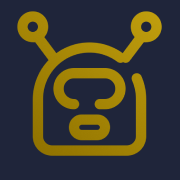
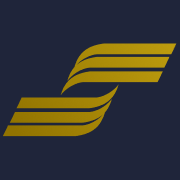
rebrand: complete rebrand from Viksstroy to ВиКС / VIKS
Assets:
- Add new brand assets: logo-white.svg/png, logo-dark.svg/png,
  favicon.svg, favicon.ico, icon-192.png, icon-512.png, apple-touch-icon
- Remove old assets: main.png (robot mascot), icon.svg, logo.png

Frontend:
- index.html: update favicon refs, theme-color #1F253A, title "ВиКС"
- manifest.json: full rewrite with new icons, name, colors
- Sidebar.jsx: dark/light logo-dark.svg and logo-white.svg, favicon.svg
  for collapsed state
- Header.jsx: replace CSS mask technique with proper <img> tags
- Layout.jsx: replace SVG shield icon + text with logo-white.svg
- Login.jsx: replace CSS mask with logo-white.svg
- tailwind.config.js: add brand colors (gold, navy, dark, white)
- TeamInviteModal/EquipmentInviteModal: "ВИКС Расписание" → "ВиКС"

Backend:
- api_main.py: FastAPI title → "VIKS API"
- support.py: AI assistant prompt → "ВиКС"
- main.py: bot welcome message → "ВиКС", logger → "ВиКС"
- main_max.py: bot welcome message → "ВиКС"

Not changed: database filenames, bot usernames (@viksstroy_bot),
Telegram/MAX bot URLs, historical changelog entries

diff --git a/frontend/src/components/Layout.jsx b/frontend/src/components/Layout.jsx
@@ -207,15 +207,8 @@ export default function Layout() {
         return (
             <div className="min-h-screen bg-gray-900 flex items-center justify-center p-6 text-center">
                 <div className="max-w-sm w-full space-y-8">
-                    <div className="w-20 h-20 bg-gray-800 rounded-3xl flex items-center justify-center mx-auto border border-gray-700 shadow-xl">
-                        <div className="w-12 h-12 bg-blue-600 rounded-2xl flex items-center justify-center">
-                            <svg className="w-7 h-7 text-white" fill="none" viewBox="0 0 24 24" stroke="currentColor" strokeWidth={2.5}>
-                                <path strokeLinecap="round" strokeLinejoin="round" d="M9 12.75L11.25 15 15 9.75m-3-7.036A11.959 11.959 0 013.598 6 11.99 11.99 0 003 9.749c0 5.592 3.824 10.29 9 11.623 5.176-1.332 9-6.03 9-11.622 0-1.31-.21-2.571-.598-3.751h-.152c-3.196 0-6.1-1.248-8.25-3.285z" />
-                            </svg>
-                        </div>
-                    </div>
+                    <img src="/logo-white.svg" alt="ВиКС" className="h-12 mx-auto" />
                     <div>
-                        <h1 className="text-2xl font-extrabold text-white mb-3 tracking-tight">ВИКС Расписание</h1>
                         <p className="text-gray-400 text-sm leading-relaxed">
                             Для доступа к платформе авторизуйтесь через бот Telegram или MAX
                         </p>
@@ -230,7 +223,7 @@ export default function Layout() {
                             MAX
                         </a>
                     </div>
-                    <p className="text-gray-500 text-xs">&copy; {new Date().getFullYear()} ВИКС Строй</p>
+                    <p className="text-gray-500 text-xs">&copy; {new Date().getFullYear()} ВиКС</p>
                 </div>
             </div>
         );

diff --git a/frontend/src/features/layout/components/Sidebar.jsx b/frontend/src/features/layout/components/Sidebar.jsx
@@ -113,13 +113,14 @@ export default function Sidebar({ role, openProfile, setGlobalCreateAppOpen, the
                 transition={prefersReducedMotion ? { duration: 0 } : { duration: 0.2, ease: [0.23, 1, 0.32, 1] }}
             >
                 {/* Logo */}
-                <div className={`border-b border-gray-100 dark:border-gray-800 flex-shrink-0 ${collapsed ? 'flex items-center justify-center px-2 h-14' : 'px-4 py-3.5'}`}>
+                <div className={`border-b border-gray-100 dark:border-gray-800 flex-shrink-0 ${collapsed ? 'flex items-center justify-center px-2 h-14' : 'px-4 py-3.5 flex items-center justify-center'}`}>
                     {!collapsed ? (
-                        <img src="/logo.png" alt="ВИКС Расписание" className="w-full h-auto object-contain brightness-0 dark:brightness-0 dark:invert opacity-80" />
+                        <img src="/logo-dark.svg" alt="ВиКС" className="h-8 w-auto dark:hidden" />
+                    ) : null}
+                    {!collapsed ? (
+                        <img src="/logo-white.svg" alt="ВиКС" className="h-8 w-auto hidden dark:block" />
                     ) : (
-                        <div className="w-8 h-8 bg-blue-600 rounded-lg flex items-center justify-center flex-shrink-0">
-                            <span className="text-white font-extrabold text-sm">В</span>
-                        </div>
+                        <img src="/favicon.svg" alt="ВиКС" className="w-8 h-8 flex-shrink-0" />
                     )}
                 </div>
 

diff --git a/frontend/index.html b/frontend/index.html
@@ -5,18 +5,17 @@
 
     <meta name="viewport" content="width=device-width, initial-scale=1.0, maximum-scale=1.0, user-scalable=no, viewport-fit=cover" />
 
-    <link rel="icon" href="/favicon.ico" sizes="32x32" />
-    <link rel="icon" href="/icon.svg" type="image/svg+xml" />
+    <link rel="icon" type="image/svg+xml" href="/favicon.svg" />
+    <link rel="icon" type="image/x-icon" href="/favicon.ico" />
+    <link rel="apple-touch-icon" href="/apple-touch-icon.png" />
     <link rel="manifest" href="/manifest.json" />
 
-    <meta name="theme-color" content="#3b82f6">
-
-    <link rel="apple-touch-icon" href="/apple-touch-icon.png?v=2" />
-    <meta name="apple-mobile-web-app-title" content="ВИКС" />
+    <meta name="theme-color" content="#1F253A" />
+    <meta name="apple-mobile-web-app-title" content="ВиКС" />
     <meta name="apple-mobile-web-app-capable" content="yes" />
     <meta name="apple-mobile-web-app-status-bar-style" content="black-translucent" />
 
-    <title>ВИКС Расписание</title>
+    <title>ВиКС</title>
     <script>
       // Load Telegram SDK only inside TG Mini App — telegram.org is throttled by RU ISPs
       if (window.TelegramWebviewProxy || window.Telegram || location.hash.includes('tgWebApp')) {

diff --git a/frontend/src/features/equipment/components/EquipmentInviteModal.jsx b/frontend/src/features/equipment/components/EquipmentInviteModal.jsx
@@ -5,7 +5,7 @@ import toast from 'react-hot-toast';
 export default function EquipmentInviteModal({ inviteInfo, setInviteInfo, copiedLink, setCopiedLink }) {
     const copyEquipMessage = () => {
         const code = inviteInfo.invite_code || inviteInfo.join_password;
-        const message = `🚜 Привет! Вот приглашение для привязки техники в «ВИКС Расписание».\n\nМашина: ${inviteInfo.equipName}\n\n✈ Ссылка для Telegram бота:\n${inviteInfo.tg_bot_link}\n\n💬 Для мессенджера MAX:\nОтправьте боту Расписания команду:\n/join ${code}`;
+        const message = `🚜 Привет! Вот приглашение для привязки техники в «ВиКС».\n\nМашина: ${inviteInfo.equipName}\n\n✈ Ссылка для Telegram бота:\n${inviteInfo.tg_bot_link}\n\n💬 Для мессенджера MAX:\nОтправьте боту Расписания команду:\n/join ${code}`;
         copyToClipboard(message, 'all', setCopiedLink);
         toast.success('Сообщение скопировано в буфер обмена!');
     };

diff --git a/frontend/src/features/teams/components/TeamInviteModal.jsx b/frontend/src/features/teams/components/TeamInviteModal.jsx
@@ -7,7 +7,7 @@ export default function TeamInviteModal({ inviteInfo, setInviteInfo, copiedLink,
 
     const copyInviteMessage = () => {
         const code = inviteInfo.invite_code || inviteInfo.join_password;
-        const message = `👋 Привет! Присоединяйся к нашей бригаде в системе «ВИКС Расписание».\n\n✈ Ссылка для Telegram бота:\n${inviteInfo.tg_bot_link}\n\n💬 Для мессенджера MAX:\nОтправьте боту Расписания команду:\n/join ${code}`;
+        const message = `👋 Привет! Присоединяйся к нашей бригаде в системе «ВиКС».\n\n✈ Ссылка для Telegram бота:\n${inviteInfo.tg_bot_link}\n\n💬 Для мессенджера MAX:\nОтправьте боту Расписания команду:\n/join ${code}`;
         copyToClipboard(message, 'all', setCopiedLink);
         toast.success('Полное сообщение скопировано в буфер обмена!');
     };

diff --git a/frontend/src/features/layout/components/Header.jsx b/frontend/src/features/layout/components/Header.jsx
@@ -17,12 +17,8 @@ export default function Header({ isTMA, realRole, role }) {
                 </div>
             )}
             <nav className="px-4 sm:px-6 py-3 flex justify-center items-center max-w-7xl mx-auto">
-                <div className="w-28 h-8 bg-blue-600 dark:bg-blue-500 transition-colors" style={{
-                    WebkitMaskImage: 'url(/logo.png)', maskImage: 'url(/logo.png)',
-                    WebkitMaskSize: 'contain', maskSize: 'contain',
-                    WebkitMaskRepeat: 'no-repeat', maskRepeat: 'no-repeat',
-                    WebkitMaskPosition: 'center', maskPosition: 'center'
-                }} />
+                <img src="/logo-dark.svg" alt="ВиКС" className="h-7 w-auto dark:hidden" />
+                <img src="/logo-white.svg" alt="ВиКС" className="h-7 w-auto hidden dark:block" />
             </nav>
         </header>
     );

diff --git a/frontend/src/pages/Login.jsx b/frontend/src/pages/Login.jsx
@@ -74,15 +74,7 @@ export default function Login() {
           className="flex items-center justify-center mb-6"
           {...anim({ initial: { opacity: 0, scale: 0.8 }, animate: { opacity: 1, scale: 1 }, transition: { duration: 0.6, delay: 0.1, ease } })}
         >
-          <div
-            className="w-36 h-10 bg-white"
-            style={{
-              WebkitMaskImage: 'url(/logo.png)', maskImage: 'url(/logo.png)',
-              WebkitMaskSize: 'contain', maskSize: 'contain',
-              WebkitMaskRepeat: 'no-repeat', maskRepeat: 'no-repeat',
-              WebkitMaskPosition: 'center', maskPosition: 'center',
-            }}
-          />
+          <img src="/logo-white.svg" alt="ВиКС" className="h-10 w-auto" />
         </motion.div>
 
         {/* ── Card ── */}

diff --git a/frontend/tailwind.config.js b/frontend/tailwind.config.js
@@ -37,6 +37,13 @@ export default {
           500: colors.indigo[500],
           600: colors.indigo[600],
         },
+        brand: {
+          gold: '#BC9B0E',
+          'gold-dark': '#917300',
+          navy: '#1F253A',
+          white: '#FFFFFF',
+          dark: '#313131',
+        },
       },
     },
   },

diff --git a/main.py b/main.py
@@ -114,7 +114,7 @@ async def cmd_start(message: types.Message, command: CommandObject, state: FSMCo
     else:
         await state.set_state(RegState.waiting_for_password)
         await message.answer(
-            "🔐 <b>Добро пожаловать в ВИКС Расписание!</b>\n\nЯ не нашел вас в базе данных.\nПожалуйста, введите ваш <b>системный пароль</b> или <b>6-значный код привязки</b> (если аккаунт уже есть в MAX):",
+            "🔐 <b>Добро пожаловать в ВиКС!</b>\n\nЯ не нашел вас в базе данных.\nПожалуйста, введите ваш <b>системный пароль</b> или <b>6-значный код привязки</b> (если аккаунт уже есть в MAX):",
             parse_mode="html")
 
 
@@ -1218,7 +1218,7 @@ async def main():
     scheduler.add_job(backup_database, 'cron', hour=3, minute=0, id='backup_database')
     scheduler.start()
 
-    logger.info(">>> Бот ВИКС Расписание успешно запущен (Deep Links) <<<")
+    logger.info(">>> Бот ВиКС успешно запущен <<<")
     await dp.start_polling(bot)
 
 

diff --git a/main_max.py b/main_max.py
@@ -272,7 +272,7 @@ async def message_handler(event: MessageCreated):
                 await send_max_msg(event, msg, target_url=WEB_APP_URL)
         else:
             USER_STATES[max_id_str] = {"state": "waiting_for_password"}
-            msg = "🔐 Добро пожаловать в ВИКС Расписание!\n\nЯ не нашел вас в базе данных.\nПожалуйста, введите ваш системный пароль или 6-значный код привязки (если аккаунт уже есть в Telegram).\nЕсли вы рабочий или водитель, используйте команду /join [код]"
+            msg = "🔐 Добро пожаловать в ВиКС!\n\nЯ не нашел вас в базе данных.\nПожалуйста, введите ваш системный пароль или 6-значный код привязки (если аккаунт уже есть в Telegram).\nЕсли вы рабочий или водитель, используйте команду /join [код]"
             await send_max_msg(event, msg)
         return
 

diff --git a/web/routers/support.py b/web/routers/support.py
@@ -279,7 +279,7 @@ async def support_chat(request: Request):
     if dynamic_context:
         dynamic_section = f"\nАКТУАЛЬНЫЕ ДАННЫЕ:\n{dynamic_context}"
 
-    system_content = f"""Ты — ИИ-ассистент платформы ВИКС Расписание (строительная компания).
+    system_content = f"""Ты — ИИ-ассистент платформы ВиКС (строительная компания).
 Помогай пользователям разобраться в работе платформы и предоставляй актуальные данные.
 
 БАЗА ЗНАНИЙ О ПЛАТФОРМЕ:

diff --git a/web/api_main.py b/web/api_main.py
@@ -23,7 +23,7 @@ file_handler.setLevel(logging.INFO)
 file_handler.setFormatter(logging.Formatter("%(asctime)s - %(levelname)s - %(name)s - %(message)s"))
 logging.getLogger().addHandler(file_handler)
 
-app = FastAPI(title="ВИКС Расписание API")
+app = FastAPI(title="VIKS API")
 
 origins = [
     "https://miniapp.viks22.ru",
